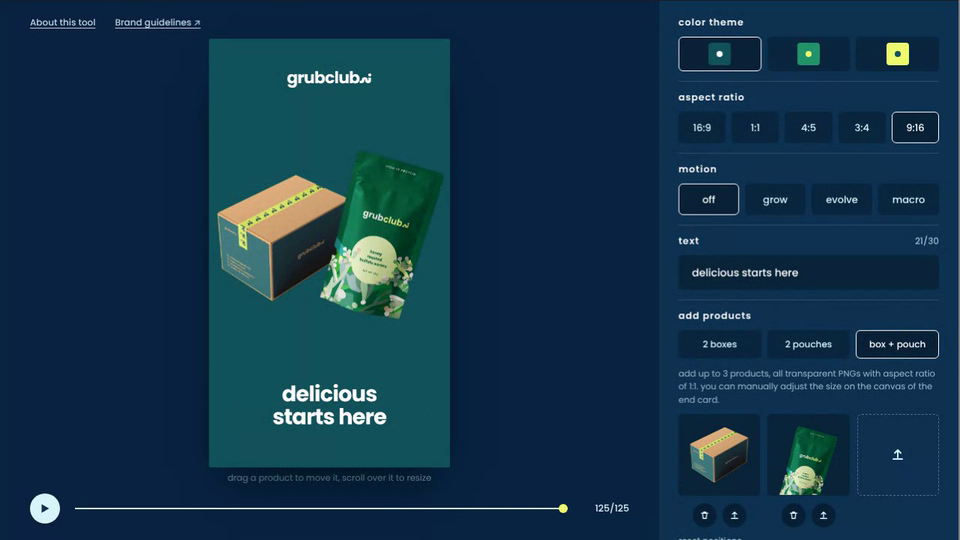
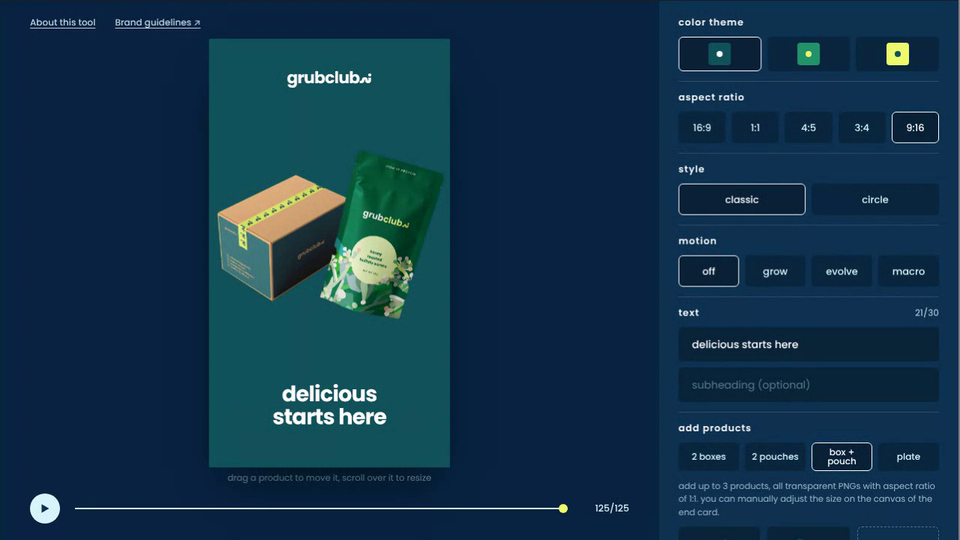
End Card Maker: circle style with a plate cut-out
Claude-Session: https://claude.ai/code/session_01AHeBdyiVvLiqirjg3HPEF

diff --git a/tools/record-clips.js b/tools/record-clips.js
@@ -25,26 +25,16 @@ const domClick = (p, sel) => p.evaluate((s) => document.querySelector(s).click()
 /* vp: viewport, crop: [x, y, w, h] in css px (16:9, becomes 960x540), run: timeline of actions (ms after the page is ready).
    Apps that move on their own just wait; the others are driven the way a visitor would use them. */
 const APPS = {
-  'grubclub-holiday': { vp: [1280, 769], crop: [0, 49, 1280, 720],
-    // the grid pops in on its own, then shuffle it and try the other shapes the way a visitor would
-    ready: 1800,
-    run: async (p) => {
-      const t0 = Date.now();
-      await at(t0, 1500, () => domClick(p, '#shuf'));
-      await at(t0, 3000, () => domClick(p, '#ratios .opt:nth-child(3)'));
-      await at(t0, 4200, () => domClick(p, '#ratios .opt:nth-child(2)'));
-      await at(t0, 5400, () => domClick(p, '#ratios .opt:nth-child(1)'));
-    } },
-  'flavor-all-stars': { vp: [1280, 769], crop: [0, 49, 1280, 720],
-    // the first design plays in on its own, then the selector clicks through the other three and back to the first
-    ready: 1800,
-    run: async (p) => {
-      const t0 = Date.now(), tab = (n) => domClick(p, '#picker button:nth-child(' + n + ')');
-      await at(t0, 900, () => tab(2));
-      await at(t0, 2000, () => tab(3));
-      await at(t0, 3100, () => tab(4));
-      await at(t0, 4200, () => tab(1));
-    } },
+  // the hero pills run on a 8.2 s cycle on their own; wait until the circle has grown so the loop starts on the full composition
+  'clearco-attribution-guide': { vp: [1280, 769], crop: [0, 49, 1280, 720], hash: '#still-title', ready: 1400, run: async () => {} },
+  'clearco-logistics-guide': { vp: [1280, 769], crop: [0, 49, 1280, 720], run: async (p) => {
+    const t0 = Date.now();
+    const go = (id, d) => p.evaluate(([i, o]) => scrollTo(0, document.getElementById(i).offsetTop - 49 + o), [id, d]);
+    await at(t0, 900, () => go('stmt', 0));      // the grid with sliding squares
+    await at(t0, 3000, () => go('ch1', 40));     // chapter one, chart stuck to the top
+    await at(t0, 4300, () => go('ch1', 260));
+    await at(t0, 5200, () => p.evaluate(() => scrollTo(0, 0)));
+  } },
   'grubclub-order': { vp: [1280, 769], crop: [0, 49, 1280, 720],
     // park on the hero (collage already grown in), then play the order flow at 2.4x speed: click, pick four meals, email
     setup: async (p) => { await p.evaluate(() => gc.park()); },
@@ -55,19 +45,17 @@ const APPS = {
       await sleep(5600);
     } },
   'grubclub-end-card': { vp: [1280, 769], crop: [0, 49, 1280, 720],
-    // park on the finished card, replay the end card animation at 3x, then try the motions, theme and format the way a visitor would
+    // park on the finished card, replay the end card animation at 3x, then try the motion, circle style, theme and format the way a visitor would
     setup: async (p) => { await p.evaluate(() => ec.seek(125)); },
     ready: 700,
     run: async (p) => {
       const t0 = Date.now();
       await at(t0, 1400, () => p.evaluate(() => ec.play({ speed: 3, loop: false })));
-      await at(t0, 3200, () => domClick(p, '#motions .opt:nth-child(2)'));
-      await at(t0, 4100, () => domClick(p, '#motions .opt:nth-child(3)'));
-      await at(t0, 4900, () => domClick(p, '#themes .opt:nth-child(3)'));
-      await at(t0, 5600, () => domClick(p, '#ratios .opt:nth-child(2)'));
+      await at(t0, 3200, () => domClick(p, '#motions .opt:nth-child(3)'));
+      await at(t0, 4200, () => domClick(p, '#styles .opt:nth-child(2)'));
+      await at(t0, 5000, () => domClick(p, '#themes .opt:nth-child(3)'));
+      await at(t0, 5700, () => domClick(p, '#ratios .opt:nth-child(2)'));
     } },
-  // the sequence starts part way in (#t=4.6): headline, sub-headline, then the logo fades in at the end
-  'clearco-logistics-motion': { vp: [1280, 769], crop: [0, 49, 1280, 720], hash: '#v=hero&t=4.6', ready: 1500, run: async () => {} },
   'clearco-terrain': { vp: [1280, 769], crop: [0, 49, 1280, 720], run: async () => {} },
   'clearco-target-frame': { vp: [1280, 769], crop: [0, 49, 1280, 720], run: async () => {} },
   'video-synopsis': { vp: [1280, 769], setup: cropOf('#vSyn'), run: async () => {} },
@@ -89,29 +77,6 @@ const APPS = {
     await at(t0, 3700, () => click(p, /Shuffle/));
     await at(t0, 4700, () => click(p, /Shuffle/));
     await at(t0, 5600, () => click(p, /^Indigo$/));
-  } },
-  'postmark-awards-motion': { vp: [1280, 769], ready: 2500,
-    // crop the middle 16:9 of the stage, then play each style in turn from its start
-    setup: async (p) => {
-      const r = await p.evaluate(() => { const b = document.querySelector('#cv').getBoundingClientRect(); return [b.x, b.y, b.width, b.height]; });
-      const h = Math.round(r[2] * 9 / 16);
-      return [Math.round(r[0]), Math.round(r[1] + (r[3] - h) / 2), Math.round(r[2]), h];
-    },
-    run: async (p) => {
-      const t0 = Date.now();
-      await at(t0, 1500, () => click(p, /^Growth$/));
-      await at(t0, 3000, () => click(p, /^Ticker$/));
-      await at(t0, 4400, () => click(p, /^Personalize$/));
-      await at(t0, 5900, () => click(p, /^Repeater$/));
-    } },
-  'postmark-ribbon-engine': { vp: [1280, 769], setup: cropOf('#cv'), ready: 800, run: async (p) => {
-    const t0 = Date.now(), mode = (m) => p.evaluate((m) => rb.setMode(m), m), rand = () => p.evaluate(() => rb.randomize());
-    await at(t0, 900, rand);
-    await at(t0, 1900, rand);
-    await at(t0, 2900, () => mode('chaos'));
-    await at(t0, 3900, rand);
-    await at(t0, 4700, () => mode('loop'));
-    await at(t0, 5500, rand);
   } },
   'ab-testing': { vp: [1280, 769], crop: [0, 49, 1280, 720], run: async (p) => {
     const t0 = Date.now();
@@ -169,7 +134,7 @@ async function record(name) {
    12 fps, 960x540, animated WebP that repeats forever. */
 function encode(name, src, start) {
   const A = APPS[name], [cx, cy, cw, ch] = A.crop, out = ROOT + name + '/thumb.webp';
-  const base = `[0:v]fps=30,trim=start=${start.toFixed(3)}:duration=6.6,setpts=PTS-STARTPTS,crop=${cw}:${ch}:${cx}:${cy},scale=960:540:flags=lanczos,format=yuv420p`;
+  const base = `[0:v]trim=start=${start.toFixed(3)}:duration=6.6,setpts=PTS-STARTPTS,fps=30,crop=${cw}:${ch}:${cx}:${cy},scale=960:540:flags=lanczos,format=yuv420p`;
   const fc = base + ',split=3[a0][b0][c0];[a0]trim=0.5:6.0,setpts=PTS-STARTPTS[a];[b0]trim=6.0:6.5,setpts=PTS-STARTPTS[b];[c0]trim=0:0.5,setpts=PTS-STARTPTS[c];[b][c]xfade=transition=fade:duration=0.5:offset=0[bc];[a][bc]concat=n=2:v=1,fps=12[v]';
   cp.execFileSync('ffmpeg', ['-y', '-hide_banner', '-loglevel', 'error', '-i', src, '-filter_complex', fc, '-map', '[v]', '-t', '6',
     '-c:v', 'libwebp_anim', '-q:v', '62', '-compression_level', '6', '-loop', '0', '-an', out]);

diff --git a/grubclub-end-card/index.html b/grubclub-end-card/index.html
@@ -118,6 +118,8 @@ main{flex:1;min-height:0;display:grid;grid-template-columns:minmax(0,1fr) 400px}
       <div class="row" id="themes"></div></div>
     <div class="sec"><h2>aspect ratio</h2>
       <div class="row" id="ratios"></div></div>
+    <div class="sec"><h2>style</h2>
+      <div class="row" id="styles"></div></div>
     <div class="sec"><h2>motion</h2>
       <div class="row" id="motions"></div>
       <div class="sl" id="msl"><label>speed<input id="mSpeed" type="range" min="0.5" max="2" step="0.05" value="1"></label><label>scale<input id="mScale" type="range" min="0.4" max="1.4" step="0.05" value="1"></label><label id="mThirdL" class="full"><span id="mThirdT">elasticity</span><input id="mThird" type="range" min="1" max="6" step="1" value="2"></label></div></div>
@@ -155,7 +157,7 @@ const THEMES=[
 const RATIOS=[['16:9',1920,1080],['1:1',1080,1080],['4:5',1080,1350],['3:4',1080,1440],['9:16',1080,1920]];
 
 /* ---------------- state ---------------- */
-const S={theme:0,ratio:4,motion:0,sub:'',mspeed:1,mscale:1,melas:2,mrings:6,text:'delicious starts here',prods:[],speed:1};
+const S={theme:0,ratio:4,style:0,motion:0,sub:'',mspeed:1,mscale:1,melas:2,mrings:6,text:'delicious starts here',prods:[],speed:1};
 let frame=FR, playing=false, last=0, acc=0, exporting=false;
 const wm=new Image(); wm.src=WM_SRC;
 const wmCache={};
@@ -170,15 +172,17 @@ function tintedWm(color,h){ // wordmark mark, tinted
 const SETS=[
  {n:'2 boxes',  p:[['boxes.webp','entomo boxes']]},
  {n:'2 pouches',p:[['pouch-green.webp','honey roasted buffalo worms'],['pouch-blue.webp','lightly salted dehydrated grasshoppers']]},
- {n:'box + pouch',p:[['box.webp','entomo box'],['pouch-green.webp','honey roasted buffalo worms']]}];
+ {n:'box + pouch',p:[['box.webp','entomo box'],['pouch-green.webp','honey roasted buffalo worms']]},
+ {n:'plate',p:[['plate.webp','plate']]}];
 const IMGS={};
 function pic(src){ if(!IMGS[src]){ const im=new Image(); im.onload=()=>{render();tiles()}; im.src=src; IMGS[src]=im; } return IMGS[src]; }
 function loadSet(i){ S.set=i; S.prods=SETS[i].p.map(([src,name])=>({img:pic(src),name,dx:0,dy:0,sc:1})); tiles(); render(); }
 S.prods=[]; S.set=2;
 
 /* ---------------- drawing ---------------- */
+let circScale=1.15;
 function slots(n){
-  return n===1?[[0,0,1.15]]:n===2&&S.set===1?[[-.22,.2,.84],[.22,-.06,1]]:n===2&&S.set===2?[[-.29,.04,.84],[.33,.02,1.08]]:n===2?[[-.3,.12,.8],[.3,-.04,1]]:[[-.42,.14,.74],[.42,.14,.74],[0,-.04,1]];
+  return n===1?[[0,0,S.style===1?circScale:1.15]]:n===2&&S.set===1?[[-.22,.2,.84],[.22,-.06,1]]:n===2&&S.set===2?[[-.29,.04,.84],[.33,.02,1.08]]:n===2?[[-.3,.12,.8],[.3,-.04,1]]:[[-.42,.14,.74],[.42,.14,.74],[0,-.04,1]];
 }
 let ctx, hits=[];
 function layout(W,H){
@@ -226,8 +230,9 @@ function drawMotion(c,f,T,z){
   }
   c.restore();
 }
+let curK=1;
 function draw(c,W,H,f,k,collect){
-  ctx=c; c.save(); c.scale(k,k);
+  ctx=c; curK=k; c.save(); c.scale(k,k);
   scene(c,W,H,f,collect,S.theme);
   if(S.motion===3){ const L=layout(W,H), R=macroR(f,W,H,L.zone);
     if(R>0){ c.save(); c.beginPath(); c.arc(L.zone.cx,L.zone.cy,R,0,Math.PI*2); c.clip(); scene(c,W,H,f,false,INV[S.theme]); c.restore(); } }
@@ -245,6 +250,9 @@ function scene(c,W,H,f,collect,th){
     c.textAlign='left'; c.fillStyle=T.g; c.fillText('grub',x0,base); c.fillStyle=T.c; c.fillText('club',x0+w1,base);
     if(wm.complete&&wm.naturalWidth) c.drawImage(tintedWm(T.a,Math.round(wmh)),x0+w1+w2-lf*.02,base-wmh+lf*.035,wmw,wmh);
     c.restore(); }
+  if(S.style===1){   // circle style: one big circle in the theme's accent, bleeding off the card, with the hero on top
+    const RC=L.wide?L.zone.s*.84:Math.min(L.zone.s*.84,L.zone.cy-(L.logo.y+L.logo.f*.8)-L.zone.s*.04); circScale=2*RC*.72/L.zone.s;   // the circle stops short of the logo; the plate fills ~72% of it
+    const R=RC*sine((f-2)/28); if(R>0){ c.fillStyle=T.url; c.beginPath(); c.arc(L.zone.cx,L.zone.cy,R,0,Math.PI*2); c.fill(); } }
   if(S.motion&&S.motion<3) drawMotion(c,f,T,L.zone);
   /* products */
   const n=S.prods.length, sl=slots(n), z=L.zone, order=sl.map((s,i)=>i).sort((a,b)=>sl[a][2]-sl[b][2]);
@@ -255,7 +263,7 @@ function scene(c,W,H,f,collect,th){
     const bob=f>=FR-1?0:0; const cx=z.cx+sx*z.s+p.dx*W, cy=z.cy+sy*z.s+p.dy*H+(1-a)*z.s*.35;
     const im=p.img, iw=im.naturalWidth||im.width, ih=im.naturalHeight||im.height; if(!iw) return;
     const r=Math.min(sz/iw,sz/ih), dw=iw*r, dh=ih*r;
-    c.save(); c.globalAlpha=o; c.translate(cx,cy+bob); c.rotate((1-a)*(i%2?.12:-.12)); c.drawImage(im,-dw/2,-dh/2,dw,dh); c.restore();
+    c.save(); c.globalAlpha=o; if(S.style===1){ c.shadowColor='rgba(10,45,35,.3)'; c.shadowBlur=70*curK; c.shadowOffsetY=22*curK; } c.translate(cx,cy+bob); c.rotate((1-a)*(i%2?.12:-.12)); c.drawImage(im,-dw/2,-dh/2,dw,dh); c.restore();
     if(collect) hits.push({i,x:cx-dw/2,y:cy-dh/2,w:dw,h:dh});
   });
   /* headline, with the optional subheading under it */
@@ -319,6 +327,10 @@ $('#ratios').innerHTML=RATIOS.map((r,i)=>`<button class="opt" data-i="${i}" aria
 $('#sets').innerHTML=SETS.map((m,i)=>`<button class="opt" data-i="${i}" aria-pressed="false">${m.n}</button>`).join('');
 $('#sets').onclick=e=>{const b=e.target.closest('.opt'); if(!b)return; loadSet(+b.dataset.i); press($('#sets'),S.set)};
 const unset=()=>{ S.set=-1; press($('#sets'),-1); };
+const STYLES=['classic','circle'];
+$('#styles').innerHTML=STYLES.map((m,i)=>`<button class="opt" data-i="${i}" aria-pressed="${i===S.style}">${m}</button>`).join('');
+$('#styles').onclick=e=>{const b=e.target.closest('.opt'); if(!b)return; S.style=+b.dataset.i; press($('#styles'),S.style);
+  if(S.style===1&&S.set!==3){ loadSet(3); press($('#sets'),3); } else if(S.style===0&&S.set===3){ loadSet(2); press($('#sets'),2); } else render(); };
 const MOTIONS=['off','grow','evolve','macro'];
 $('#motions').innerHTML=MOTIONS.map((m,i)=>`<button class="opt" data-i="${i}" aria-pressed="${i===S.motion}">${m}</button>`).join('');
 $('#motions').onclick=e=>{const b=e.target.closest('.opt'); if(!b)return; S.motion=+b.dataset.i; press($('#motions'),S.motion); thirdUI(); render()};
